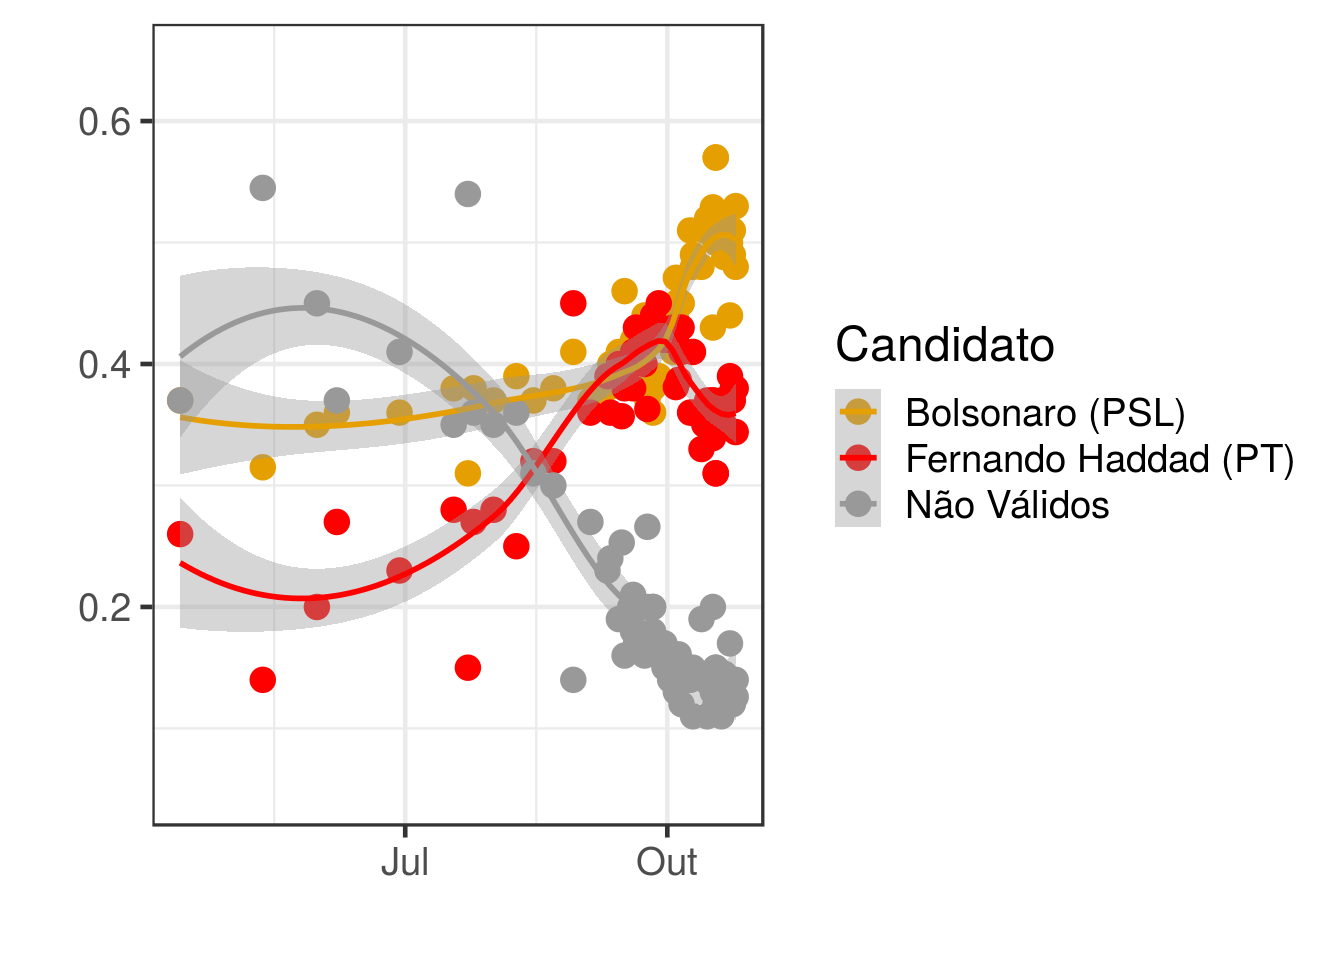
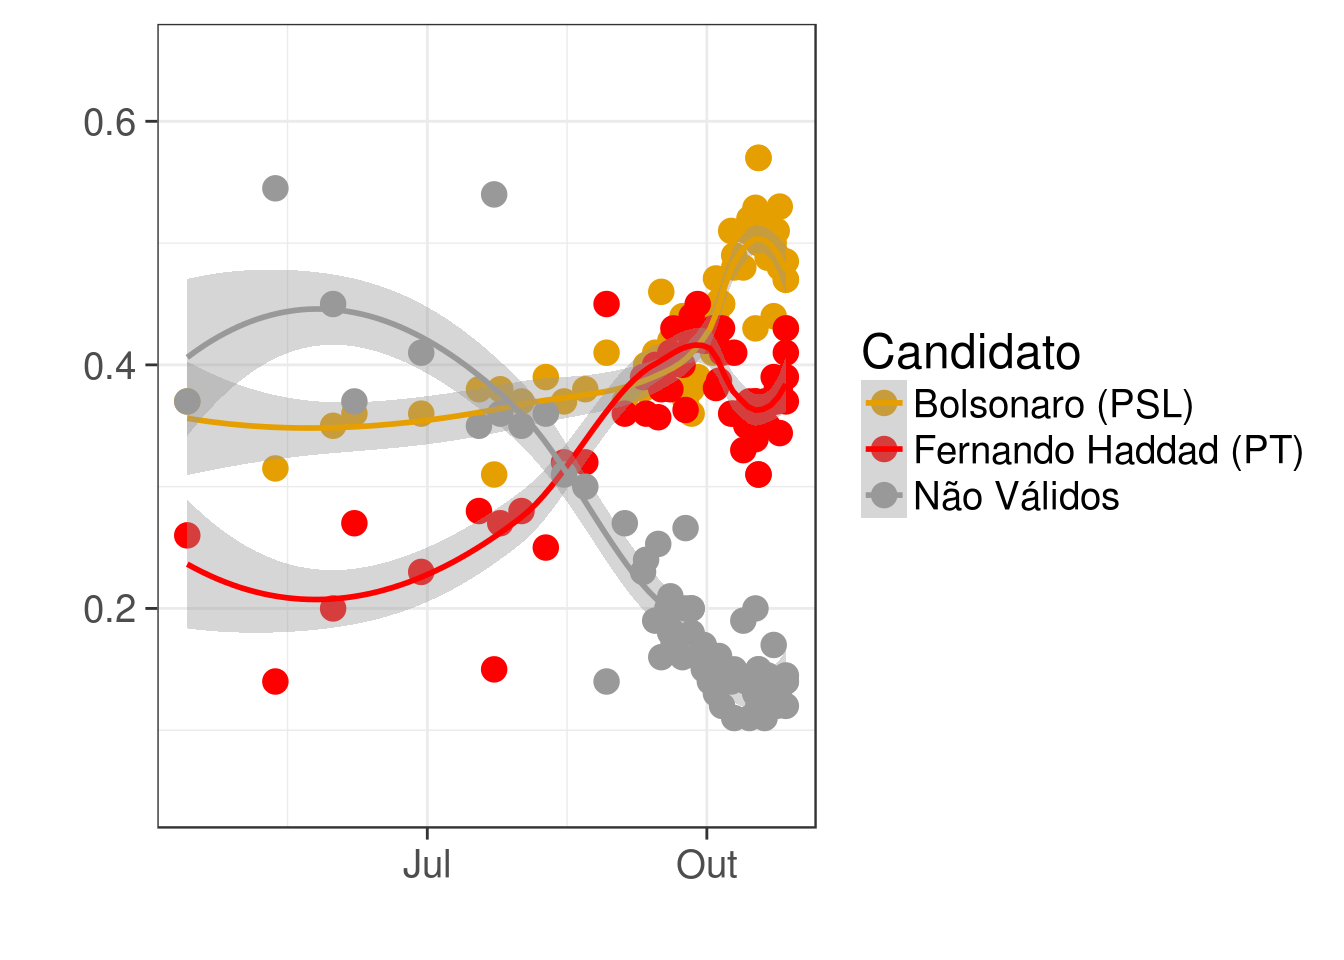
Atualizando Eleicoes 2018 com as pesquisas de sabado

diff --git a/eleicoes2018.html b/eleicoes2018.html
@@ -253,7 +253,7 @@ $(document).ready(function () {
 
 <div id="dados" class="section level2">
 <h2>Dados</h2>
-<p>Peguei os dados das pesquisas registradas usando no site pooling data <a href="http://www.pollingdata.com.br" class="uri">http://www.pollingdata.com.br</a>.</p>
+<p>Peguei os dados das pesquisas registradas usando no site pooling data <a href="http://www.pollingdata.com.br" class="uri">http://www.pollingdata.com.br</a>. Mas quem quiser, pode baixar o arquivo csv <a href="files/PollingData%20-%202018-T2-Brasil-BR-President.csv">aqui</a>.</p>
 <pre class="r"><code>library(tidyverse)
 library(lubridate)
 
@@ -265,8 +265,8 @@ dados1 &lt;- dados %&gt;% gather(Candidato, Prop,-Data,-Instituto, -link, -Entre
 dados2 &lt;- mutate(dados, Total = `Bolsonaro (PSL)` + `Fernando Haddad (PT)`, 
                  Bolsonaro = `Bolsonaro (PSL)` / Total, 
                  Haddad = `Fernando Haddad (PT)` / Total ) %&gt;%
-  select( Data, Bolsonaro, Haddad) %&gt;%
-  gather(Candidato, Prop,-Data)</code></pre>
+  select( Data, Bolsonaro, Haddad, Entrevistas, Instituto) %&gt;%
+  gather(Candidato, Prop,-Data, -Entrevistas, -Instituto)</code></pre>
 </div>
 <div id="todos-os-votos-e-pesquisas" class="section level2">
 <h2>Todos os votos e pesquisas</h2>
@@ -282,44 +282,24 @@ dados2 &lt;- mutate(dados, Total = `Bolsonaro (PSL)` + `Fernando Haddad (PT)`,
 <pre class="r"><code>library(INLA)
 
 # Somente segundo turno, votos válidos para Haddad e adicionado a data da eleicao
+seq_2turno &lt;- seq.Date(from = ymd(&quot;2018-10-07&quot;), to = ymd(&quot;2018-10-28&quot;), by=1)
+
+
 dadosM &lt;- filter(dados2, Data &gt; &quot;2018-10-07&quot;, Candidato == &quot;Haddad&quot;) %&gt;%
-  bind_rows(tibble(Data = seq.Date(from = ymd(&quot;2018-10-07&quot;), to = ymd(&quot;2018-10-28&quot;), by=1), Candidato = &quot;Haddad&quot;, Prop = NA)) %&gt;%
-  mutate( Days = as.numeric( Data - min(Data) ) + 1 )
+  bind_rows(tibble(Data = seq_2turno, Candidato = &quot;Haddad&quot;, Prop = NA)) %&gt;%
+  mutate( Days = as.numeric( Data - min(Data) ) + 1,
+          Peso = round(Entrevistas / min(Entrevistas, na.rm = T))) %&gt;%
+  replace_na(list(Peso = 1))
+
 
 model &lt;- Prop ~ 1 + f(Days, model = &quot;rw2&quot;)
 
+
 r &lt;- inla(model, data = dadosM, family = &quot;beta&quot;, control.predictor = list( compute = T, link = T))
-summary(r)</code></pre>
-<pre><code>## 
-## Call:
-## c(&quot;inla(formula = model, family = \&quot;beta\&quot;, data = dadosM, control.predictor = list(compute = T, &quot;,  &quot;    link = T))&quot;)
-## 
-## Time used:
-##  Pre-processing    Running inla Post-processing           Total 
-##          0.6351          0.1775          0.2772          1.0898 
-## 
-## Fixed effects:
-##                mean    sd 0.025quant 0.5quant 0.975quant    mode kld
-## (Intercept) -0.3286 0.052    -0.4313  -0.3287    -0.2257 -0.3289   0
-## 
-## Random effects:
-## Name   Model
-##  Days   RW2 model 
-## 
-## Model hyperparameters:
-##                                                   mean       sd 0.025quant
-## precision parameter for the beta observations    84.22    24.86      44.16
-## Precision for Days                            20441.54 19110.45    1807.55
-##                                               0.5quant 0.975quant    mode
-## precision parameter for the beta observations    81.44     141.12   76.04
-## Precision for Days                            15014.99   71092.68 5152.67
-## 
-## Expected number of effective parameters(std dev): 2.41(0.3295)
-## Number of equivalent replicates : 9.543 
-## 
-## Marginal log-Likelihood:  28.76 
-## Posterior marginals for linear predictor and fitted values computed</code></pre>
-<pre class="r"><code>Prediction &lt;- as_tibble(r$summary.fitted.values[24:nrow(dadosM),]) %&gt;% bind_cols(Data = seq.Date(from = ymd(&quot;2018-10-07&quot;), to = ymd(&quot;2018-10-28&quot;), by=1))
+
+
+Prediction &lt;- as_tibble(
+  r$summary.fitted.values[(nrow(dadosM)-length(seq_2turno)+1):nrow(dadosM),]) %&gt;% bind_cols(Data = seq.Date(from = ymd(&quot;2018-10-07&quot;), to = ymd(&quot;2018-10-28&quot;), by=1))
 
 
 p1 &lt;- ggplot(filter(dados2, Data &gt; &quot;2018-10-07&quot;), aes(x = Data, y = Prop, color = Candidato)) + geom_point(size = 4) + theme_bw(base_size = 18) + xlab(&quot;&quot;) + ylab(&quot;&quot;) + scale_color_manual(values=c(&quot;#E69F00&quot;, &quot;red&quot;)) + ylim(c(0.3,.7))
@@ -333,14 +313,27 @@ p1 + geom_line(data = Prediction, mapping = aes(x = Data, y = mode), color = &qu
 ## Warning: Ignoring unknown aesthetics: y</code></pre>
 <p><img src="eleicoes2018_files/figure-html/unnamed-chunk-4-1.png" width="672" /></p>
 </div>
-<div id="proporcao-de-votos-validos-do-haddad" class="section level2">
-<h2>Proporcão de votos válidos do Haddad</h2>
-<pre class="r"><code>Prediction[nrow(Prediction),]</code></pre>
-<pre><code>## # A tibble: 1 x 7
+<div id="estimativas-de-votos-validos-do-haddad" class="section level2">
+<h2>Estimativas de votos válidos do Haddad</h2>
+<pre class="r"><code>tail(Prediction)</code></pre>
+<pre><code>## # A tibble: 6 x 7
 ##    mean     sd `0.025quant` `0.5quant` `0.975quant`  mode Data      
 ##   &lt;dbl&gt;  &lt;dbl&gt;        &lt;dbl&gt;      &lt;dbl&gt;        &lt;dbl&gt; &lt;dbl&gt; &lt;date&gt;    
-## 1 0.429 0.0383        0.356      0.428        0.508 0.426 2018-10-28</code></pre>
-<p>Até é possível calcular a probabilidade de vitória do Haddad, mas por ser tão baixa prefiro nem olhar. (O Neale tá estimando 2%)</p>
+## 1 0.429 0.0136        0.402      0.429        0.456 0.429 2018-10-23
+## 2 0.433 0.0142        0.405      0.433        0.461 0.433 2018-10-24
+## 3 0.438 0.0154        0.407      0.438        0.468 0.438 2018-10-25
+## 4 0.443 0.0175        0.408      0.443        0.477 0.442 2018-10-26
+## 5 0.448 0.0205        0.408      0.447        0.489 0.447 2018-10-27
+## 6 0.453 0.0246        0.406      0.452        0.503 0.451 2018-10-28</code></pre>
+<p>Note que a última linha é o dia da eleição.</p>
+<p>Calculando a probabilidade de vitória do Haddad, <span class="math inline">\(P(Y_T &gt; 0.50)\)</span>, onde <span class="math inline">\(T\)</span> é o dia da eleição (28/10/2018).</p>
+<pre class="r"><code>aux &lt;- names(r$marginals.fitted.values)
+
+prob &lt;- 1 - inla.pmarginal( q = 0.50, 
+                marginal = r$marginals.fitted.values[aux[length(aux)]][[1]]
+                )
+round(prob,4)</code></pre>
+<pre><code>## [1] 0.0309</code></pre>
 </div>
 
 

diff --git a/news.html b/news.html
@@ -257,7 +257,7 @@ $(document).ready(function () {
 <li>(New paper) Accepted in the Scandinavian Journal of Work Enviroment &amp; Health. (with Leidjaira Juvanhol and others)</li>
 </ul>
 <p>Last update:</p>
-<pre><code>## [1] &quot;Fri Oct 26 18:13:58 2018&quot;</code></pre>
+<pre><code>## [1] &quot;Sun Oct 28 01:07:34 2018&quot;</code></pre>
 
 
 
